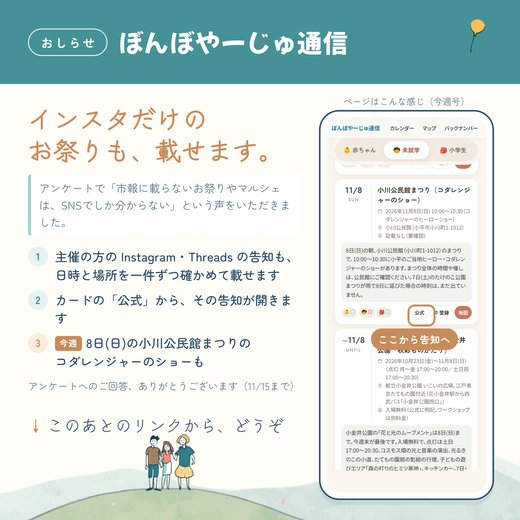
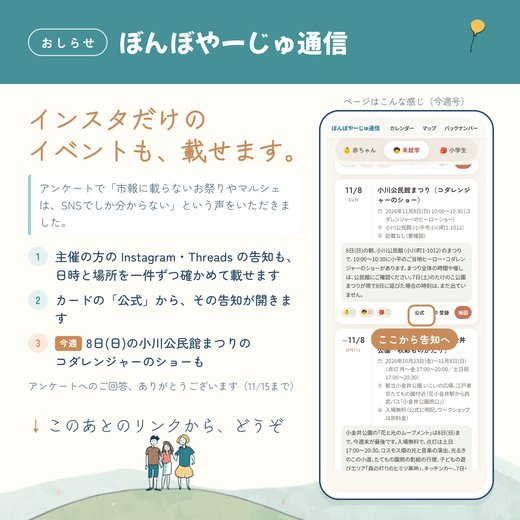
11/4号の案内画像: 見出しを「インスタだけのイベントも、載せます。」に（オーナー）
Claude-Session: https://claude.ai/code/session_01TyaNTcqynAhK5RxtQUWRVv

Changed region(s): [[0.0615, 0.2462, 0.5538, 0.3077]]

diff --git a/docs/print/line/sns-2026-11-04.html b/docs/print/line/sns-2026-11-04.html
@@ -68,7 +68,7 @@
   </div>
 
   <div class="left">
-    <div class="catch">インスタだけの<br>お祭りも、載せます。</div>
+    <div class="catch">インスタだけの<br>イベントも、載せます。</div>
     <p class="voice">アンケートで「市報に載らないお祭りやマルシェは、SNSでしか分からない」という声をいただきました。</p>
     <ul class="feat">
       <li><span class="dot">1</span><span>主催の方の Instagram・Threads の告知も、日時と場所を一件ずつ確かめて載せます</span></li>

diff --git a/reports/free/2026-11-04.md b/reports/free/2026-11-04.md
@@ -10,7 +10,7 @@
      ほかの行は書き直さない（docs/prompts/routine-wed.md 手順2）。
      たてもの園の公式サイトは 11/1 に 503（ページのカードに「10/23に確かめた内容」と書いた）。多摩六都は今号も扱わない。
      たけのこ公園まつりは、オーナーが当日お手伝いに入る（主催の光ヶ丘自治会。紙面には書かない）。
-     🆕 11/3 オーナー: 本文の前に案内画像を1枚（「インスタだけのお祭りも、載せます。」）。下の line-image の行は消さない。 -->
+     🆕 11/3 オーナー: 本文の前に案内画像を1枚（「インスタだけのイベントも、載せます。」）。下の line-image の行は消さない。 -->
 <!-- line-image: https://bonvoya.nicomaru.tokyo/assets/line/2026-11-04-sns.jpg -->
 ☀ 週末の天気（小平市）: 7(土) 晴れ時々くもり・降水20%・最高19℃／8(日) 晴れ時々くもり・降水20%・最高16℃。夕方から冷えるので、夜のおでかけは上着を（まだ動きます）。
 
